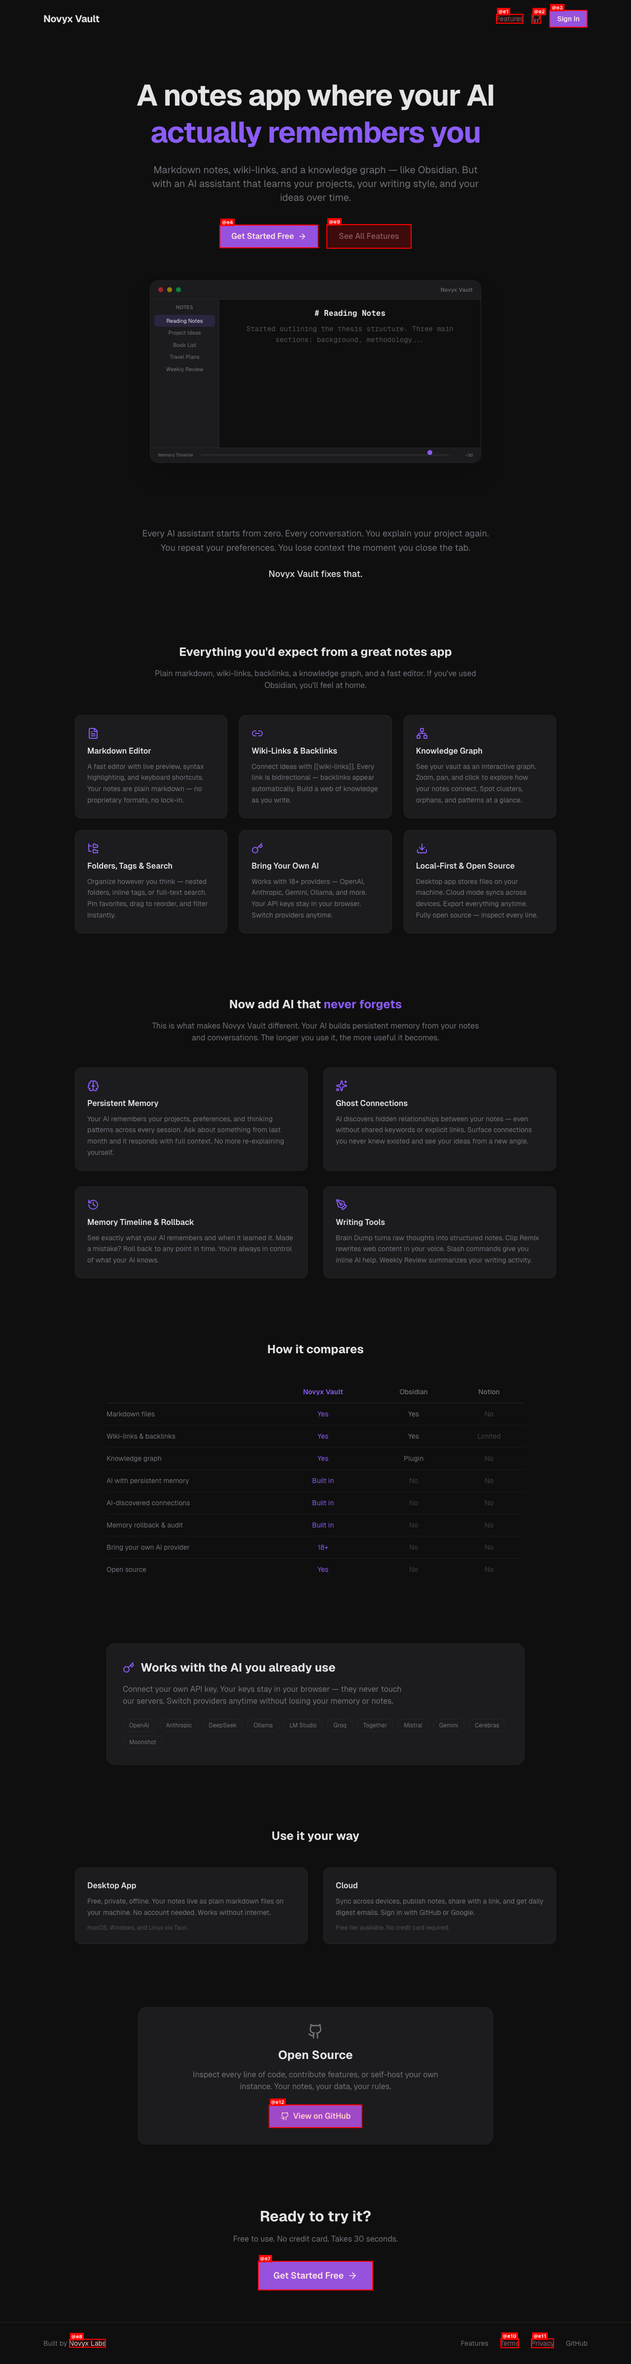
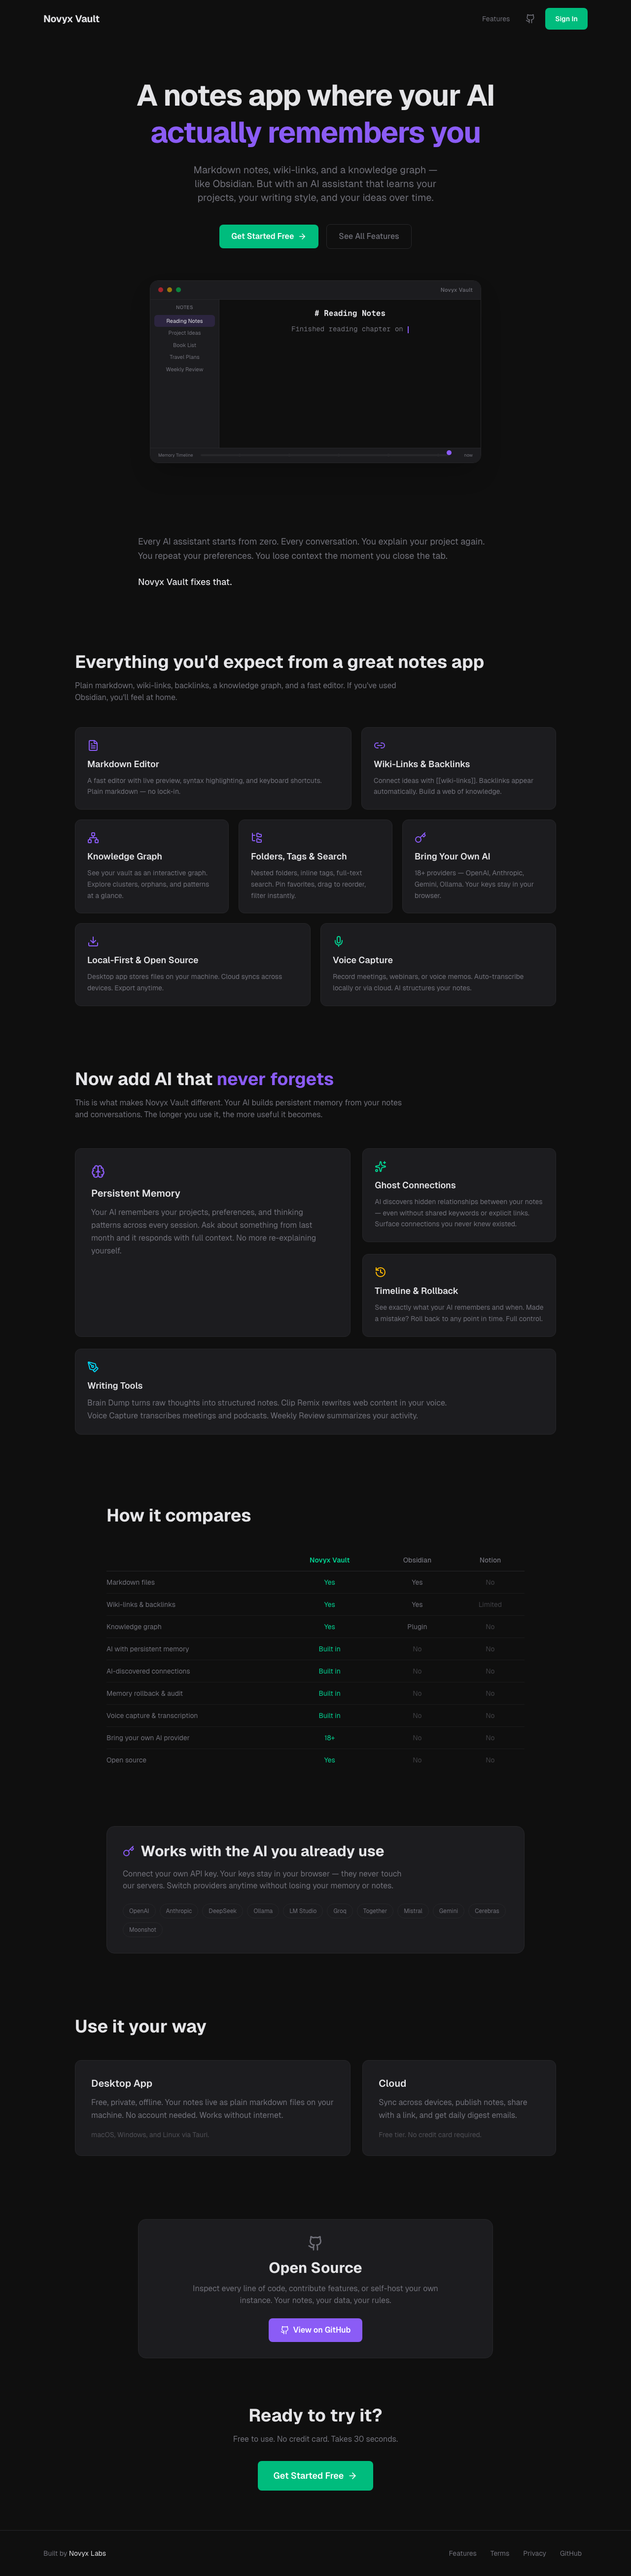
docs: replace annotated hero.png with clean screenshot, add BYOK heading

diff --git a/README.md b/README.md
@@ -46,10 +46,10 @@ Novyx Vault fixes that. Your AI builds persistent memory from your notes and con
 - **Weekly Review** — Automated summary of your writing activity.
 - **Writing Coach** — AI feedback on clarity, structure, and tone.
 
-### Your AI, Your Way
+### BYOK — Bring Your Own Key
 - **18+ AI Providers** — OpenAI, Anthropic, Google Gemini, DeepSeek, Ollama, LM Studio, Groq, Together, Mistral, xAI Grok, Perplexity, Cohere, Cerebras, SambaNova, Fireworks, Moonshot, MiniMax, OpenRouter.
-- **Bring Your Own Key** — API keys stay in your browser. We never store them on our servers.
-- **Switch Anytime** — Change providers without losing your memory or notes.
+- **Your keys, your browser** — API keys are stored in localStorage only. We never store them on our servers.
+- **Switch anytime** — Change providers without losing your memory or notes.
 
 ### Local-First & Open Source
 - **Desktop App** — Native desktop via Tauri (macOS, Windows, Linux). Notes stored as plain markdown files in `~/SecondBrain/`. No account needed, works offline.
